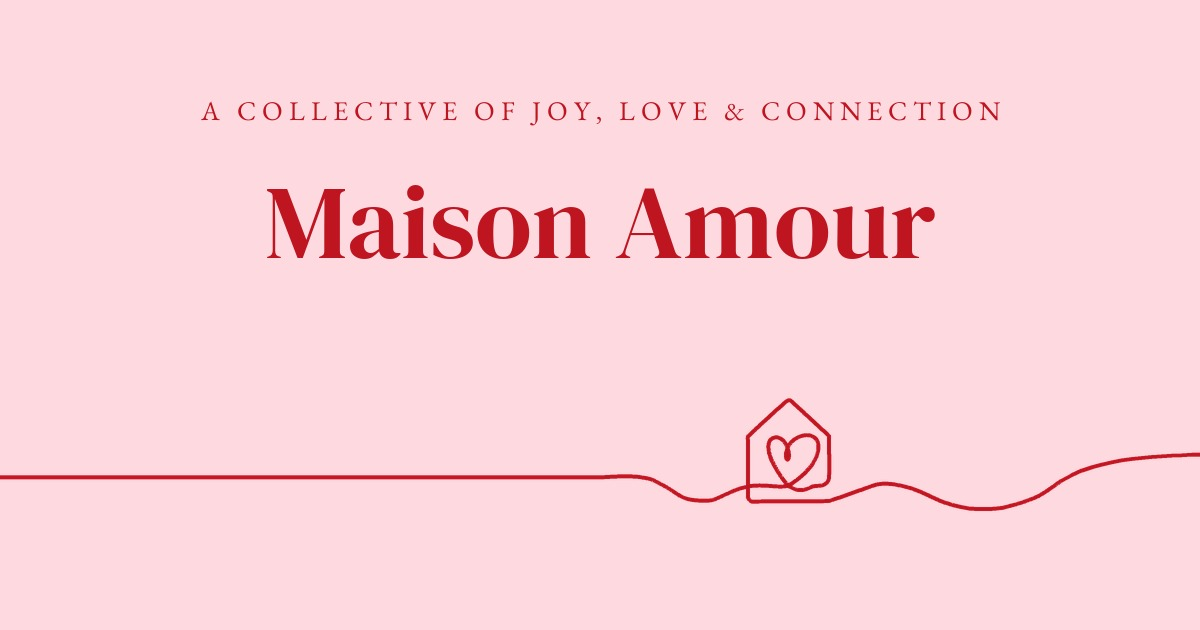
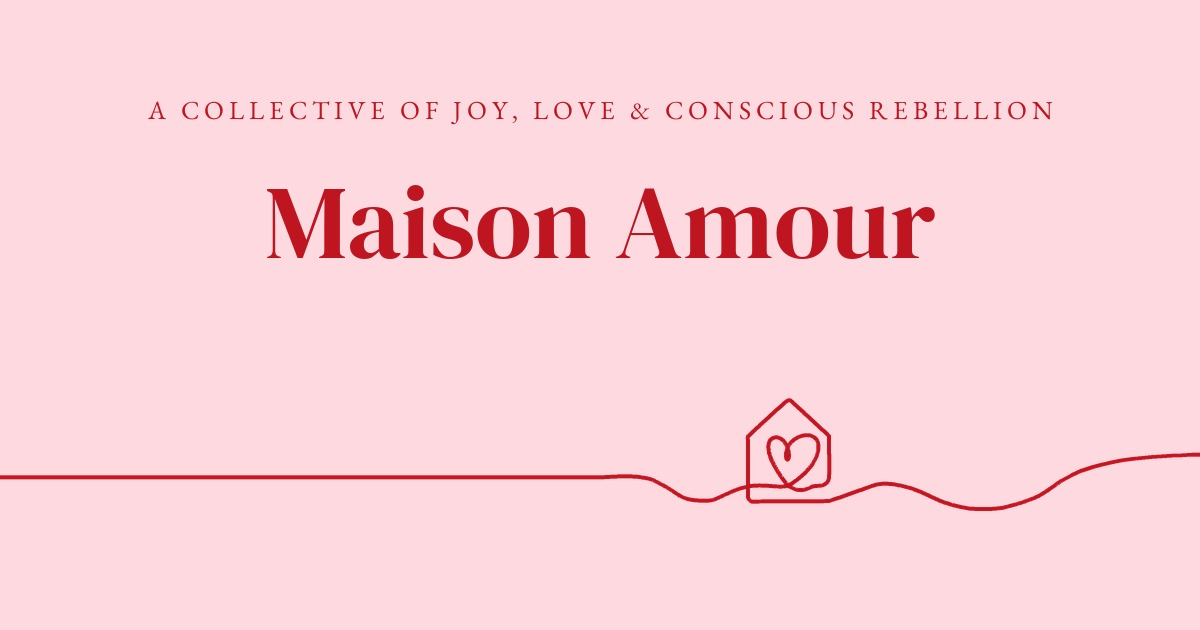
Maison Amour : phrase d'accroche 'a collective of joy, love & conscious rebellion' (page, descriptions, image de partage, llms.txt)

Changed region(s): [[0.1233, 0.1508, 0.8942, 0.2111]]

diff --git a/maison-amour-collective.html b/maison-amour-collective.html
@@ -4,9 +4,9 @@
 <meta charset="utf-8">
 <meta name="viewport" content="width=device-width, initial-scale=1">
 <title>Maison Amour Collective — Mathilde De Luca</title>
-<meta name="description" content="Maison Amour is a collective of joy, love and connection: evenings with rising artists and DJ sets, ecstatic gatherings, art &amp; jam and writers’ dinners. Born in Koh Phangan, now in Amsterdam.">
+<meta name="description" content="Maison Amour is a collective of joy, love and conscious rebellion: evenings with rising artists and DJ sets, ecstatic gatherings, art &amp; jam and writers’ dinners. Born in Koh Phangan, now in Amsterdam.">
 <meta property="og:title" content="Maison Amour Collective — Mathilde De Luca">
-<meta property="og:description" content="Maison Amour is a collective of joy, love and connection: evenings with rising artists and DJ sets, ecstatic gatherings, art &amp; jam and writers’ dinners. Born in Koh Phangan, now in Amsterdam.">
+<meta property="og:description" content="Maison Amour is a collective of joy, love and conscious rebellion: evenings with rising artists and DJ sets, ecstatic gatherings, art &amp; jam and writers’ dinners. Born in Koh Phangan, now in Amsterdam.">
 <meta property="og:type" content="website">
 <meta property="og:site_name" content="Mathilde De Luca">
 <meta property="og:locale" content="en_US">
@@ -22,7 +22,7 @@
 <link rel="canonical" href="https://mathildedeluca.com/maison-amour-collective.html">
 <meta property="og:url" content="https://mathildedeluca.com/maison-amour-collective.html">
 <meta property="og:image" content="https://mathildedeluca.com/images/og-image-maison-amour.jpg">
-<meta property="og:image:alt" content="Maison Amour, a collective of joy, love and connection, with a line drawing of a house holding a heart">
+<meta property="og:image:alt" content="Maison Amour, a collective of joy, love and conscious rebellion, with a line drawing of a house holding a heart">
 <meta property="og:image:width" content="1200">
 <meta property="og:image:height" content="630">
 
@@ -37,7 +37,7 @@
       "@id": "https://mathildedeluca.com/maison-amour-collective.html#organization",
       "name": "Maison Amour Collective",
       "url": "https://mathildedeluca.com/maison-amour-collective.html",
-      "description": "A collective of joy, love and connection: evenings with rising artists and DJ sets, ecstatic gatherings, art & jam and writers’ dinners. Born in Koh Phangan, now in Amsterdam.",
+      "description": "A collective of joy, love and conscious rebellion: evenings with rising artists and DJ sets, ecstatic gatherings, art & jam and writers’ dinners. Born in Koh Phangan, now in Amsterdam.",
       "logo": "https://mathildedeluca.com/images/og-image-maison-amour.jpg",
       "founder": {"@type": "Person", "name": "Mathilde De Luca", "url": "https://mathildedeluca.com/"},
       "sameAs": ["https://www.instagram.com/maisonamour.collective"]
@@ -178,7 +178,7 @@
     <div class="in">
       <span class="kicker">The collective</span>
       <h1>Maison<br>Amour</h1>
-      <p class="tag">a collective of joy, love &amp; connection</p>
+      <p class="tag">a collective of joy, love &amp; conscious rebellion</p>
       <p class="by">Founded by Mathilde De Luca</p>
     </div>
   </div>

diff --git a/index.html b/index.html
@@ -238,7 +238,7 @@
     <div class="ma-card fade" id="maison-amour">
       <span class="ma-kicker">The collective</span>
       <h3><a class="ma-main" href="maison-amour-collective.html">Maison Amour Collective</a></h3>
-      <p>A collective of joy, love &amp; connection. Conscious aperos with rising artists and DJ sets, plus creative gatherings with different themes: art &amp; jam, writers’ dinners, ecstatic dance…</p>
+      <p>A collective of joy, love &amp; conscious rebellion. Conscious aperos with rising artists and DJ sets, plus creative gatherings with different themes: art &amp; jam, writers’ dinners, ecstatic dance…</p>
       <a class="ma-link" href="https://www.instagram.com/maisonamour.collective" target="_blank" rel="noopener">@maisonamour.collective</a>
     </div>
 
